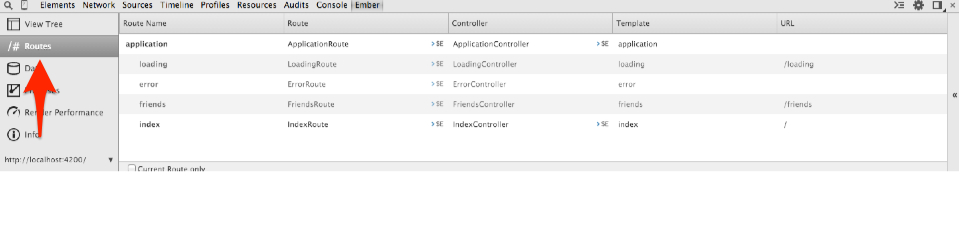
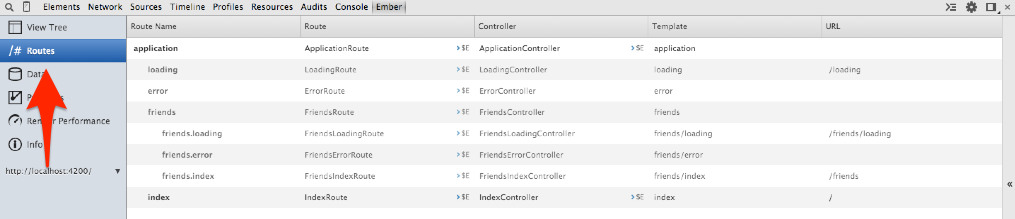
Update.

diff --git a/anatomy.md b/anatomy.md
@@ -3,9 +3,9 @@ In this chapter we will learn about ember-cli main components.
 
 `ember-cli` is a `Node.js` command line application sitting on top of other libraries.
 
-It's main  component is `Broccoli`, which allows us to have fast builds, `Broccoli` is a builder designed with the goal of keeping builds as fast as possible [^broslow].
+Its main  component is `Broccoli`, which allows us to have fast builds, `Broccoli` is a builder designed with the goal of keeping builds as fast as possible [^broslow].
 
-When we run `ember server`, `Broccoli` compiles our project and put it in a directory when it can be served using `Express.js`[^express] which is a `Node.js` library. `Express` is not only used to served files but also to extend `ember-cli` functionality using its `middlewares`, an example of this is the `http-proxy` which supports the `--proxy` option, allowing us to develop against our development backend.
+When we run `ember server`, `Broccoli` compiles our project and put it in a directory where it can be served using `Express.js`[^express] which is a `Node.js` library. `Express` is not only used to served files but also to extend `ember-cli` functionality using its `middlewares`, an example of this is the `http-proxy` which supports the `--proxy` option, allowing us to develop against our development backend.
 
 Testing  is powered by `QUnit` and `Testem`, we can always navigate to `http:/localhost:4200/tests` and our test will be run automatically. We can also run Testem in `CI` or `--development` mode with the `ember test` command. Currently there is just support for `QUnit` through an `ember-cli add-on`, we will probably see support for other testing frameworks and runners as people get familiar with the add-on system.
 
@@ -15,7 +15,7 @@ Testing  is powered by `QUnit` and `Testem`, we can always navigate to `http:/lo
 
 If you want to use coffee script you can use it but it is encouraged to use plain JS and ES6 where possible, we'll explore on next chapters its syntax and features.
 
-Finally we need to cover `Broccoli` plugins because without them, `Broccoli` wouldn't be as helpful. Every transformation that your files are going through, are done with a `Broccoli` plugin, e.g. transpiling, minifying, finger-printing, uglifying. You can have your own `Broccoli` plugins and plug it wherever you want it the build process.
+Finally we need to cover `Broccoli` plugins because without them, `Broccoli` wouldn't be as helpful. Every transformation that your files are going through, are done with a `Broccoli` plugin, e.g. transpiling, minifying, finger-printing, uglifying. You can have your own `Broccoli` plugins and plug it wherever you want in the build process.
 
 [^broslow]: Currently there are some issues on Mac which slows down the build time but there is work in progress to fix it.
 [^express]: [http://expressjs.com/](http://expressjs.com/)

diff --git a/hands-on.md b/hands-on.md
@@ -311,6 +311,18 @@ T> If you are wondering what is a resource, give a read to the following article
 If we were to have an about page in the URL `/about`, we could add `this.route('about')`, optionally we can pass an object with options, if we want our `AboutRoute` to be accessed through the URL `/info`, we'd use the option `path`: `this.route('about', { path: '/info' })`. By default `Ember.js` sets as path the route name, that's why we didn't have to pass `{path: '/about`}` on the first example.
 
 
+Back to our Friends Index, let's check our app's defined `Routes`, to do so, open the `ember-inspector` and click in `Routes`.
+
+![ember-inspector](images/routes-1.png)
+
+By default `Ember.js` creates 4 routes:
+
+- ApplicationRoute
+- IndexRoute
+- LoadingRoute
+- ErrorRoute
+
+We also see that the `FriendsRoute` and its children were added with `this.resource('friends', function() { })` if we leave out the second arguments, then the children routes are not generated. `Ember.js` will create an `Index`, `Loading` and `Error` `Route` if you pass a function as second or third argument, just like with routes, you can also pass an option object and specify the `path`.
 
 ## Adding a new friend
 
